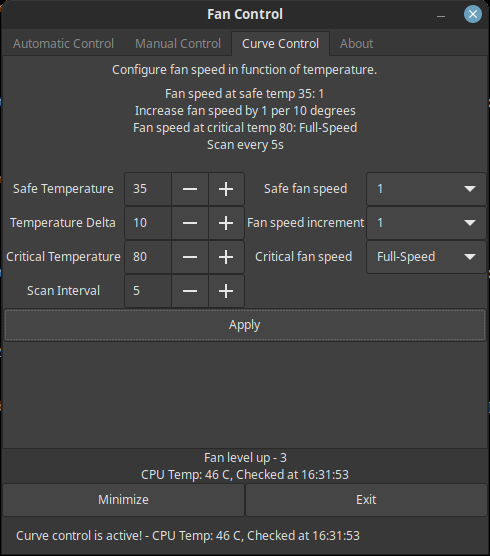
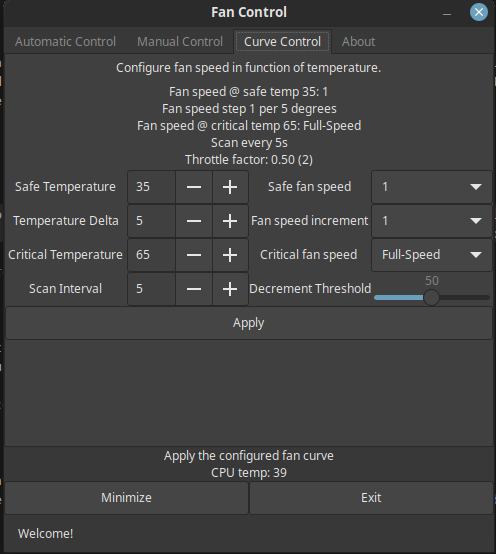
update readme + screenshots for new throttle slider

diff --git a/README.md b/README.md
@@ -28,6 +28,9 @@ $ gcc -O2 -Wall -o build/fan_control src/main.c `pkg-config gtk+-3.0 --libs --cf
 
 The UI, as mentioned, was slapped together quickly, and intended to look like the original project as much as possible. It's a bit janky ATM, though. The code is not too messy, but much like the UI, was written pretty much on the fly. It could be improved upon. As it stands, the project is working just fine on my T480, and I'm running it as I'm typing this readme. It does what it was intended to do, but I'm treating it as a hobby project for when I have some spare time for tinkering.
 
+Something that has been bugging me is that currently there is no support for config files to change the defaults (other than editing the glade file). I'd quite like to pull those values in from a more user-friendly formatted file.
+Once fan control is active, the way to switch it off currently is to switch to the _Manual_ tab and set the fan speed to `AUTO`. This again is not very user-friendly. When operating in curve or auto modes, the `Apply` button should be updated and set the fan control back to `AUTO`.
+
 ## Modes
 
 ### Auto
@@ -48,21 +51,29 @@ The `Curve control` tab is where you can set a low/safe temperature and a fan sp
 
 ```
 | Safe temperature     | 35 | Safe Fan Speed      | 1          |
-| Temperature Delta    | 10 | Fan speed increment | 1          |
-| Critical temperature | 80 | Critical Fan speed  | Full-Speed |
-| Scan Interval        | 5  |
+| Temperature Delta    | 5  | Fan speed increment | 1          |
+| Critical temperature | 65 | Critical Fan speed  | Full-Speed |
+| Scan Interval        | 5  | Decrement Threshold | *- 50 -*   |
 ```
 
 Configured in the app like so:
 
 ![Curve example](/data/screen_curve.png?raw=true "Curve control example")
 
-This will check the CPU temperature every 5 seconds, if the temperature is below 45 degrees (the safe temperature + delta -1), the fans speed will remain at 1. For every 10 degrees the CPU temperature is higher, the fan speed will be increased by 1 step (1-8, where 8 is full speed), until the CPU hits 80 degrees or more, at which point the fans will be set to full-speed. The curve, if we were to plot it out, would look something like this:
+This will check the CPU temperature every 5 seconds, if the temperature is below 40 degrees (the safe temperature + delta -1), the fans speed will remain at 1. For every 5 degrees the CPU temperature is higher, the fan speed will be increased by 1 step (1-8, where 8 is full speed), until the CPU hits 65 degrees or more, at which point the fans will be set to full-speed. To this I added a _Decrement threshold_ slider. This is a percentage of the temperature delta that the CPU temperature has to drop below before turning the fans down. For example: at 60 degrees, the fan speed is increased to 7. With `Decrement Threshold` set to 50, the fan speed won't drop back down to 6 until the CPU temp reaches 57.5 degrees (truncated because ints -> 57 degrees).
+This threshold is adiseable to avoid continuous ramp-up/ramp-down noise (fan speed too low at 59 degrees -> CPU heats up to 60 -> fan speed increases, cools CPU down to 59 -> CPU heats up, increases fan speed -> ...). Frequently changing fan speeds, though the noise is the same in both cases, just makes the fans more noticeable, so I added this as a quality of life thing.
 
+Overall, the fan curve would still look something like this (fan speed in function of temperature):
 
 ![Curve plot](/data/curve.png?raw=true "Curve graph")
 
-## Dialog
+### About
+
+Just a simple _about_ tab, using the logo of the original project, crediting the people who originally created the (GTK+-2.x) version of this utility.
+
+![About screen](/data/screen4.png?raw=true "About view")
+
+## Dialog (exit)
 
 When exiting the application, if the application has set the fan speed to anything other than `AUTO`, a dialog will appear asking whether or not you want to set the fan speed back to `AUTO` before exiting. Choosing _Cancel_ will close the dialog, and the application will stay open.
 
